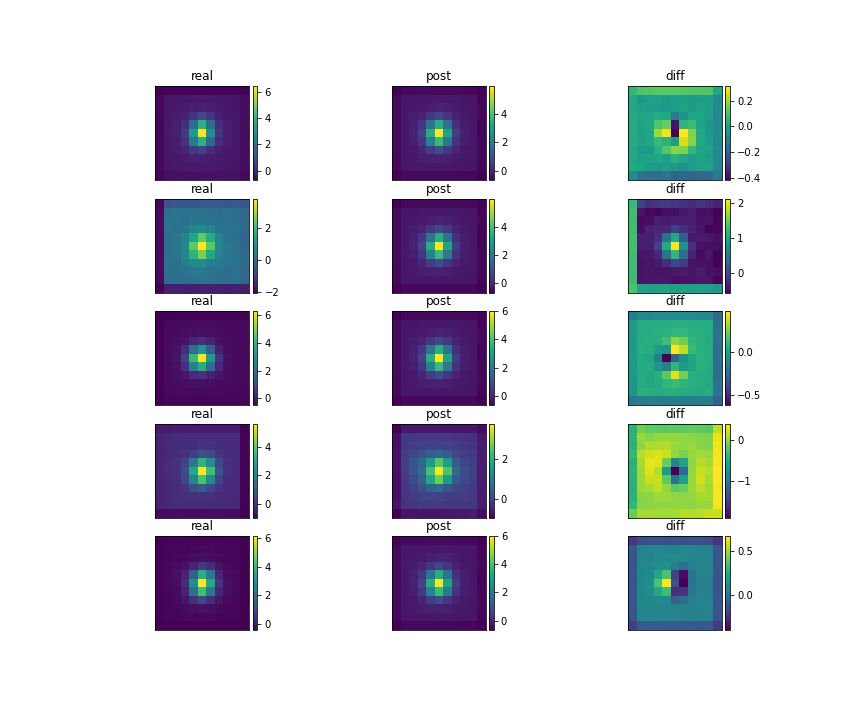
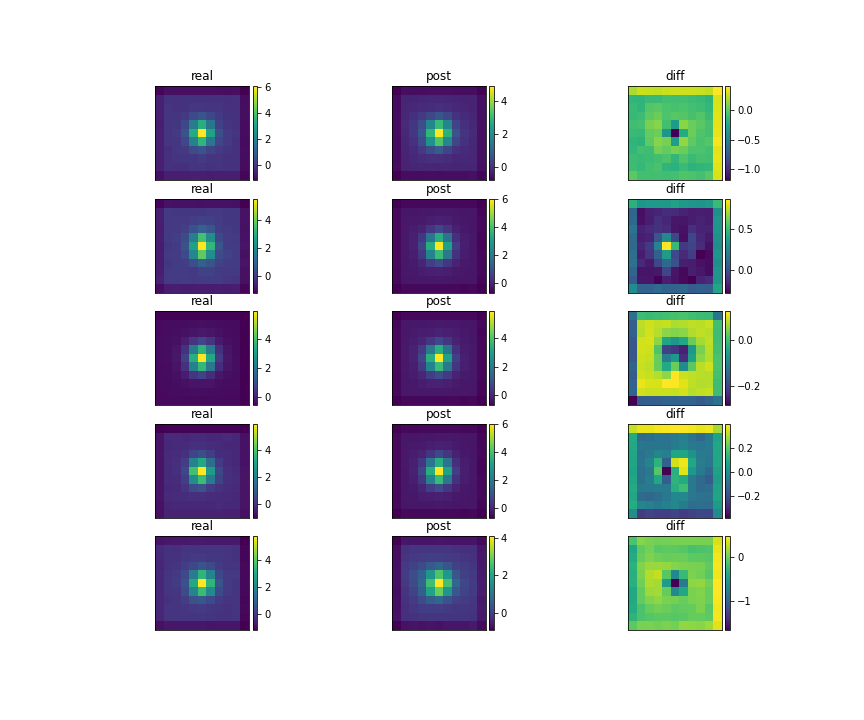
fixed bug in plotting code

diff --git a/case_studies/sdss_psf/sdss_psf.py b/case_studies/sdss_psf/sdss_psf.py
@@ -326,6 +326,6 @@ X_test, Y_test = X[new_order], Y[new_order]
 S_test = Y_test[:200]
 x_test = m.predict(X_test, S_test)
 idxs = np.random.choice(range(200, Y.size(0)), 5, replace=False)
-p, a = plot_stars(Y[idxs], x_test[idxs])
+p, a = plot_stars(Y_test[idxs], x_test[idxs])
 p.savefig("random_predictions.png")
 # %%
